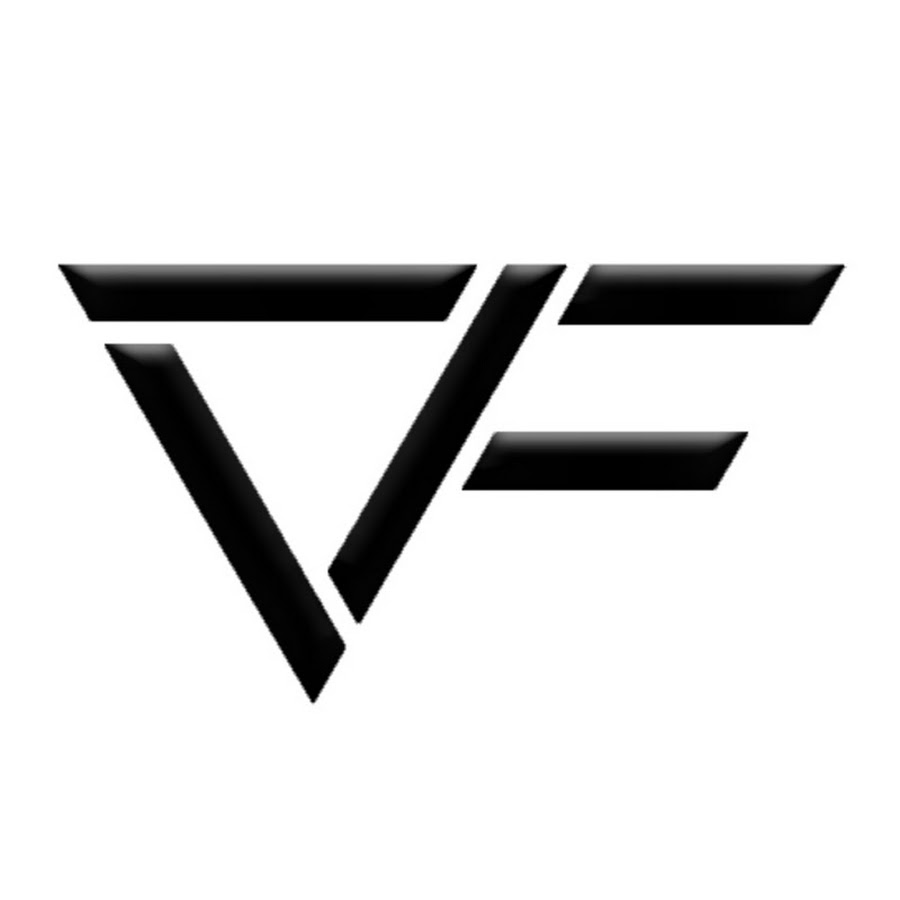
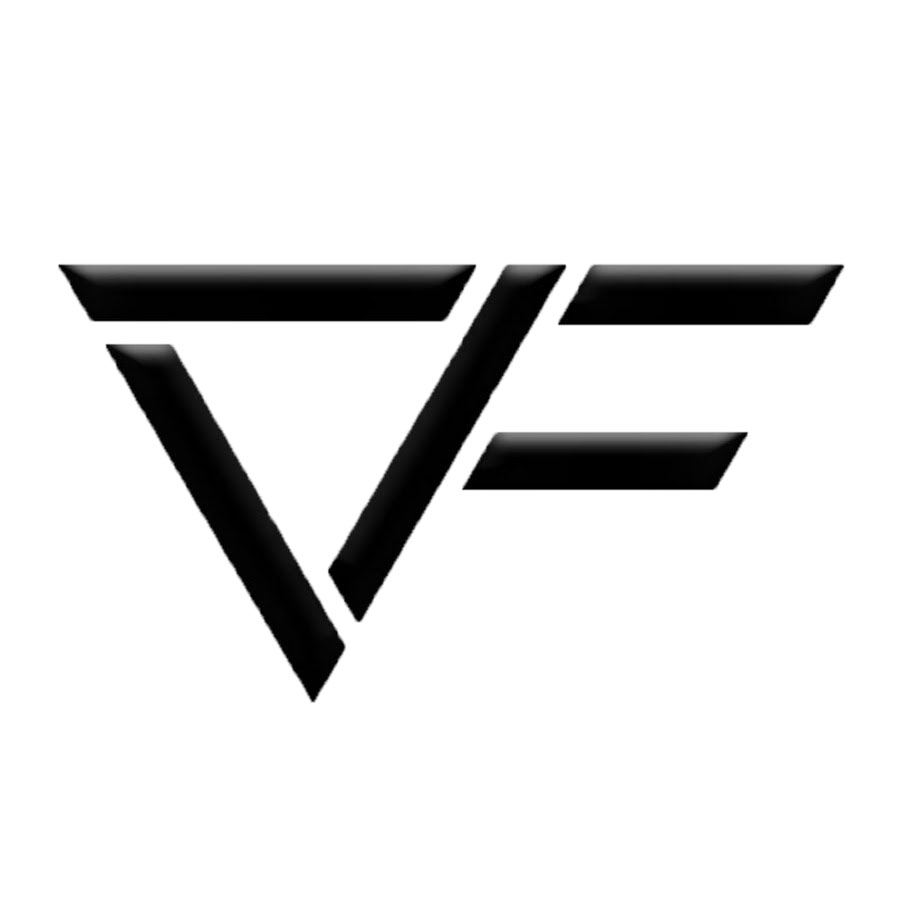
Updated ikon

diff --git a/index.html b/index.html
@@ -5,7 +5,7 @@
     <meta http-equiv="X-UA-Compatible" content="IE=edge">
     <meta name="viewport" content="width=device-width, initial-scale=1.0">
     <title>Velox Freerun</title>
-    <link rel="shortcut icon" type="image/jpg" href="img/ikon.jpg">
+    <link rel="shortcut icon" type="image/png" href="img/ikon.png">
     <script src="https://cdn.jsdelivr.net/npm/@splidejs/splide@latest/dist/js/splide.min.js"></script>
     <link rel="stylesheet" href="https://cdn.jsdelivr.net/npm/@splidejs/splide@latest/dist/css/themes/splide-default.min.css">
     <link rel="stylesheet" href="css/style.css">
